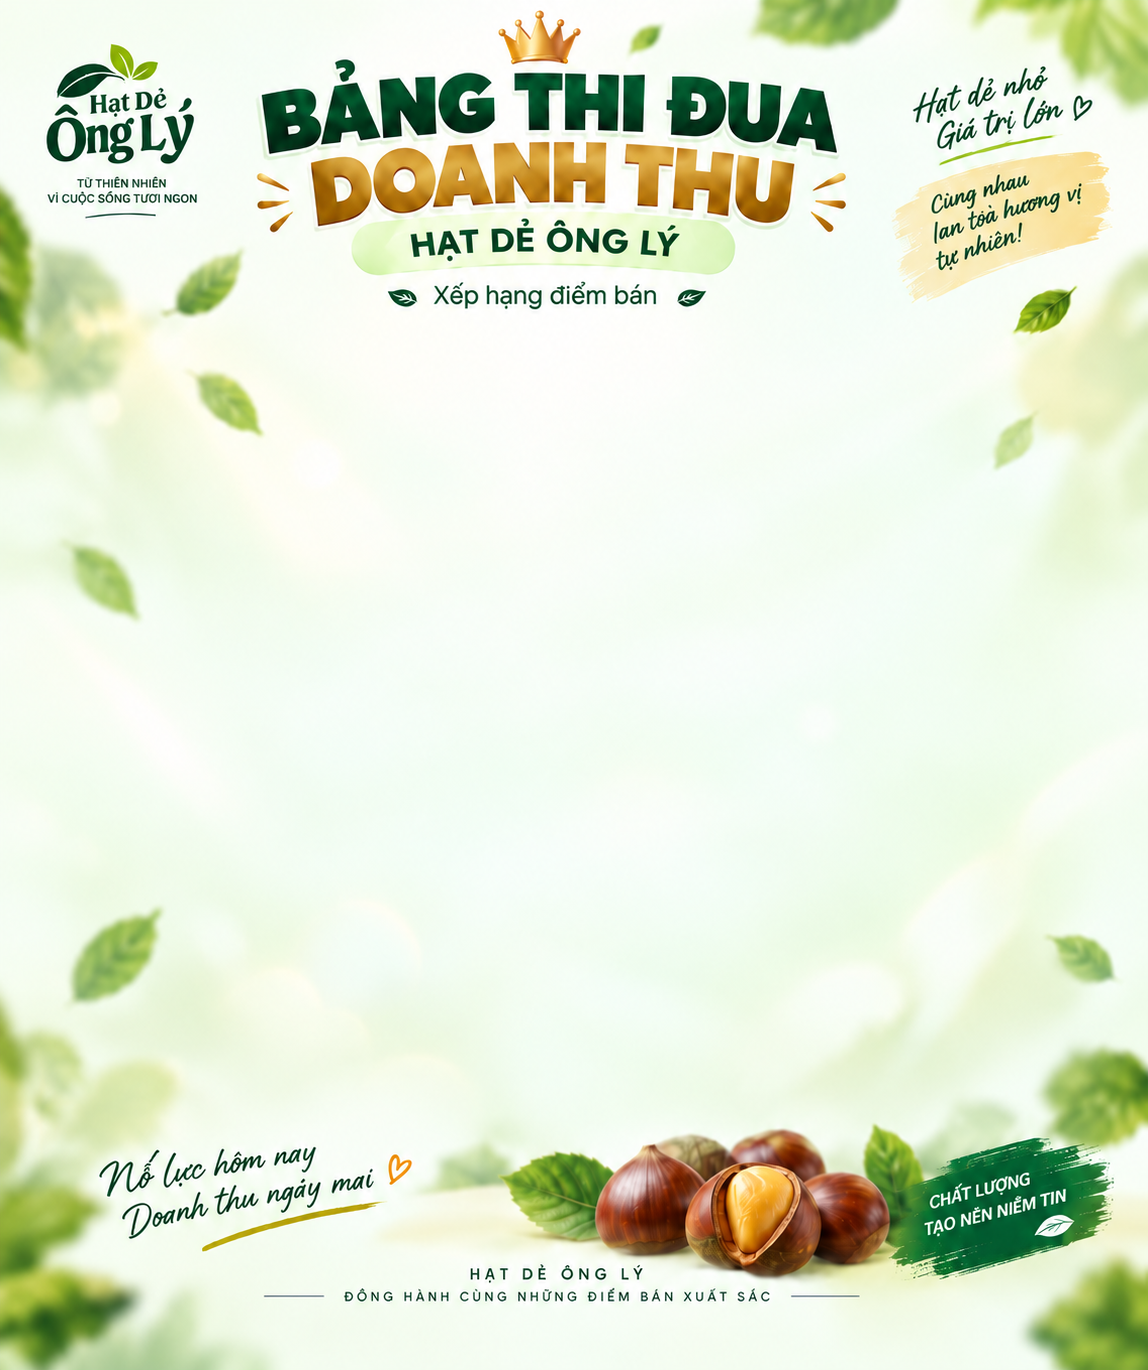
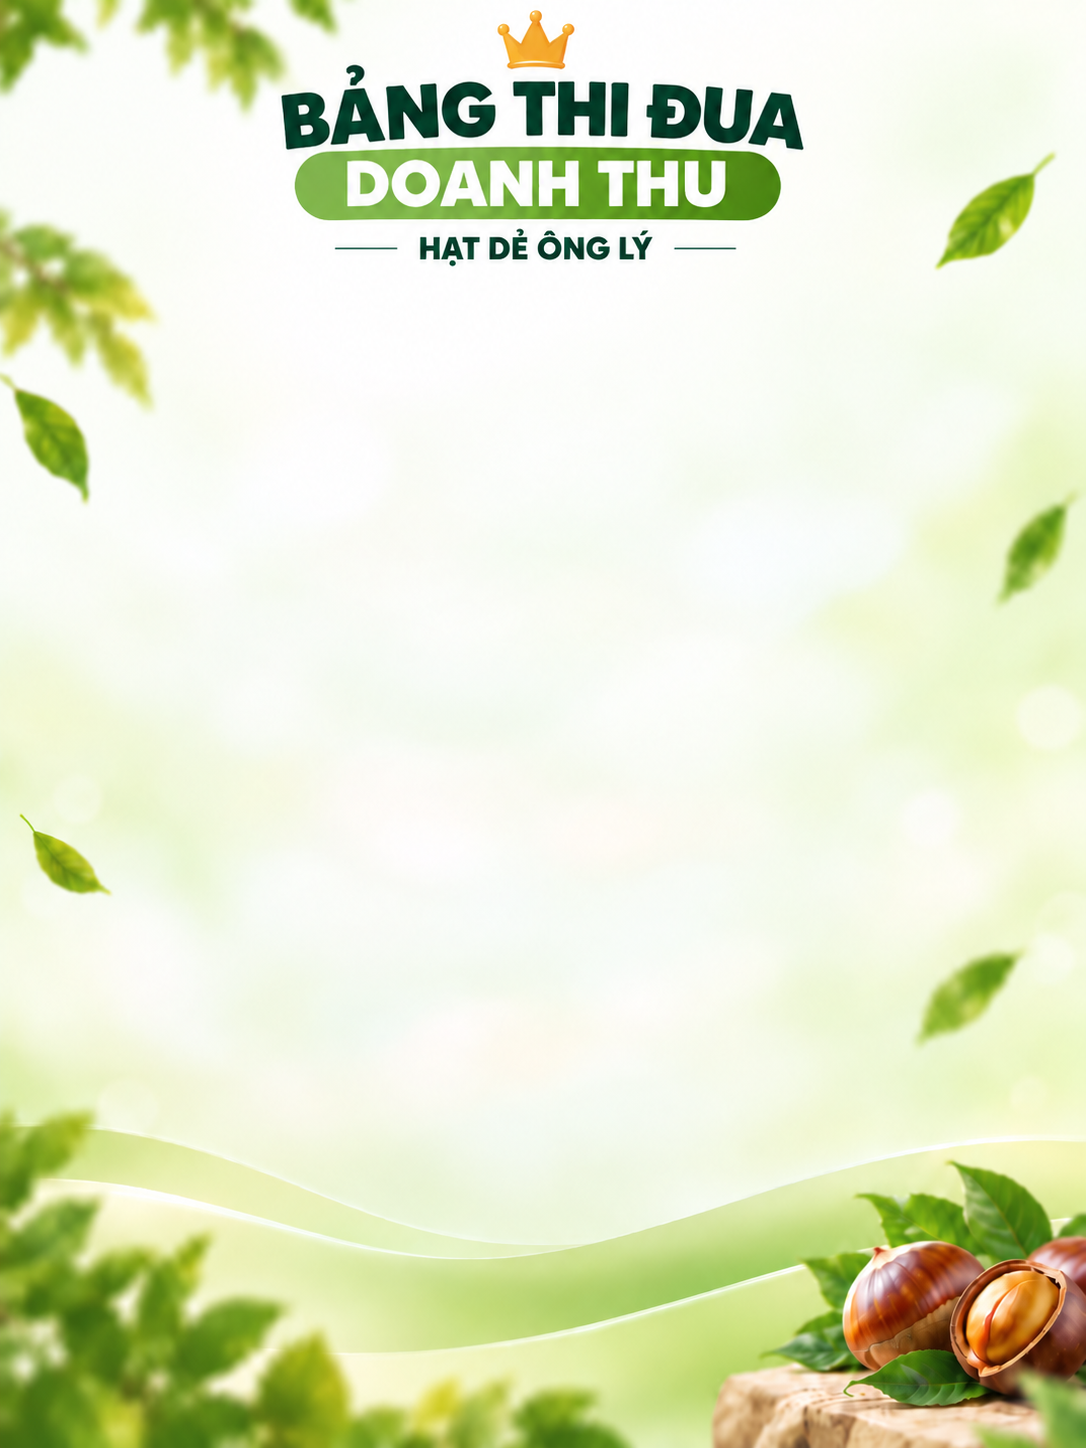
feat(hatde): cập nhật bố cục bảng thi đua
Đồng bộ bảng web và ảnh PNG theo mẫu xếp hạng 7 chi nhánh.

diff --git a/lib/hatde/board-image.ts b/lib/hatde/board-image.ts
@@ -3,11 +3,11 @@ import { Path2D, type Image, type SKRSContext2D } from '@napi-rs/canvas';
 import type { HatdeBranchViewModel, HatdeSnapshotViewModel } from '@/lib/hatde/view-model';
 
 export const HATDE_BOARD_IMAGE_WIDTH = 1080;
-export const HATDE_BOARD_IMAGE_HEIGHT = 1320;
-export const BASE_ROWS = 6;
-export const ROWS_TOP = 320;
-export const ROW_STEP = 130;
-export const TOTALS_BASE_Y = 1100;
+export const HATDE_BOARD_IMAGE_HEIGHT = 1450;
+export const BASE_ROWS = 7;
+export const ROWS_TOP = 395;
+export const ROW_STEP = 120;
+export const TOTALS_BASE_Y = 1245;
 
 export function getHatdeBoardImageHeight(rowCount: number): number {
   return HATDE_BOARD_IMAGE_HEIGHT + Math.max(0, rowCount - BASE_ROWS) * ROW_STEP;
@@ -87,31 +87,46 @@ function drawTrendArrow(ctx: SKRSContext2D, x: number, y: number, direction: 'UP
   drawSvgIcon(ctx, path, x, y, 28, color);
 }
 
-function drawComparison(ctx: SKRSContext2D, x: number, y: number, width: number, branch: HatdeBranchViewModel, key: 'vsYesterday' | 'vsLastWeek', label: string) {
+function drawComparison(ctx: SKRSContext2D, x: number, y: number, width: number, branch: HatdeBranchViewModel, key: 'vsYesterday' | 'vsLastWeek') {
   const comparison = branch[key];
   const isUp = comparison.direction === 'UP';
   const isDown = comparison.direction === 'DOWN';
   ctx.fillStyle = isUp ? COLORS.softGreen : isDown ? COLORS.softRed : COLORS.paleGreen;
   ctx.strokeStyle = isUp ? '#4ade80' : isDown ? '#fca5a5' : COLORS.border;
   ctx.lineWidth = 1.5;
-  roundedRect(ctx, x, y, width, 70, 24);
+  roundedRect(ctx, x, y, width, 62, 18);
   ctx.fill();
   ctx.stroke();
 
   ctx.fillStyle = isUp ? COLORS.darkGreen : isDown ? COLORS.red : COLORS.deepInk;
-  ctx.font = '700 16px HatdeFont';
+  drawTrendArrow(ctx, x + 17, y + 17, comparison.direction);
+  ctx.font = '700 23px HatdeFont';
   ctx.textAlign = 'center';
-  ctx.fillText(label, x + width / 2, y + 25);
-  drawTrendArrow(ctx, x + 28, y + 35, comparison.direction);
-  ctx.font = '700 24px HatdeFont';
-  ctx.fillText(comparison.display, x + width / 2 + 10, y + 54);
+  ctx.textBaseline = 'middle';
+  ctx.fillText(comparison.display, x + width / 2 + 14, y + 31);
+}
+
+function drawTableHeader(ctx: SKRSContext2D) {
+  ctx.fillStyle = 'rgba(230,242,225,0.92)';
+  roundedRect(ctx, 26, 325, 1028, 58, 18);
+  ctx.fill();
+  ctx.fillStyle = COLORS.darkGreen;
+  ctx.font = '700 16px HatdeFont';
+  ctx.textBaseline = 'middle';
+  ctx.textAlign = 'center';
+  ctx.fillText('#', 78, 354);
+  ctx.fillText('CHI NHÁNH', 190, 354);
+  ctx.fillText('DOANH THU', 455, 354);
+  ctx.fillText('SỐ GIAO DỊCH', 610, 354);
+  ctx.fillText('SO VỚI HÔM QUA', 770, 354);
+  ctx.fillText('SO VỚI TUẦN TRƯỚC', 950, 354);
 }
 
 function drawBranch(ctx: SKRSContext2D, branch: HatdeBranchViewModel, index: number) {
   const x = 28;
   const y = ROWS_TOP + index * ROW_STEP;
   const width = 1024;
-  const height = 118;
+  const height = 108;
 
   ctx.shadowColor = 'rgba(7,85,47,0.15)';
   ctx.shadowBlur = 12;
@@ -126,73 +141,75 @@ function drawBranch(ctx: SKRSContext2D, branch: HatdeBranchViewModel, index: num
 
   ctx.fillStyle = branch.rank <= 3 ? (branch.rank === 2 ? '#bcc5ce' : branch.rank === 3 ? '#a95c1b' : COLORS.gold) : COLORS.paleGreen;
   ctx.beginPath();
-  ctx.arc(92, y + height / 2, 42, 0, Math.PI * 2);
+  ctx.arc(88, y + height / 2, 38, 0, Math.PI * 2);
   ctx.fill();
-  if (branch.rank === 1) drawSvgIcon(ctx, SVG_PATHS.crown, 72, y + 2, 40, COLORS.gold, true);
-  if (branch.rank === 2 || branch.rank === 3) {
-    drawSvgIcon(ctx, SVG_PATHS.medal, 77, y + 4, 30, branch.rank === 2 ? '#7c8794' : '#8b4513');
-  }
+  if (branch.rank === 1) drawSvgIcon(ctx, SVG_PATHS.crown, 69, y - 3, 38, COLORS.gold, true);
   ctx.fillStyle = branch.rank === 2 || branch.rank >= 4 ? COLORS.darkGreen : COLORS.white;
-  ctx.font = '700 42px HatdeFont';
+  ctx.font = '700 38px HatdeFont';
   ctx.textAlign = 'center';
   ctx.textBaseline = 'middle';
-  ctx.fillText(String(branch.rank), 92, y + height / 2 + 2);
+  ctx.fillText(String(branch.rank), 88, y + height / 2 + 2);
 
   ctx.textAlign = 'left';
   ctx.textBaseline = 'alphabetic';
   ctx.fillStyle = COLORS.deepInk;
-  const nameSize = fitText(ctx, branch.name, 390, 26, 19, 'HatdeFont');
+  const nameSize = fitText(ctx, branch.name, 365, 24, 18, 'HatdeFont');
   ctx.font = `700 ${nameSize}px HatdeFont`;
-  ctx.fillText(branch.name.toUpperCase(), 155, y + 40);
+  ctx.fillText(branch.name.toUpperCase(), 145, y + 40);
   ctx.fillStyle = COLORS.darkGreen;
-  ctx.font = '700 29px HatdeFont';
-  drawSvgIcon(ctx, SVG_PATHS.wallet, 155, y + 60, 31, '#15803d');
-  ctx.fillText(branch.revenueDisplay, 198, y + 85);
+  ctx.font = '700 28px HatdeFont';
+  ctx.fillText(branch.revenueDisplay, 145, y + 79);
 
   ctx.fillStyle = COLORS.deepInk;
   ctx.font = '700 25px HatdeFont';
-  drawSvgIcon(ctx, SVG_PATHS.receipt, 474, y + 43, 32, COLORS.deepInk);
-  ctx.fillText(branch.transactionsDisplay, 520, y + 69);
+  ctx.textAlign = 'center';
+  ctx.fillText(branch.transactionsDisplay, 610, y + 53);
   ctx.font = '400 15px HatdeFont';
-  ctx.fillText('giao dịch', 550, y + 69);
+  ctx.fillStyle = '#64748b';
+  ctx.fillText('giao dịch', 610, y + 78);
 
-  drawComparison(ctx, 650, y + 24, 178, branch, 'vsYesterday', 'Hôm qua');
-  drawComparison(ctx, 846, y + 24, 178, branch, 'vsLastWeek', 'Tuần trước');
+  drawComparison(ctx, 690, y + 23, 158, branch, 'vsYesterday');
+  drawComparison(ctx, 872, y + 23, 158, branch, 'vsLastWeek');
 }
 
 function drawTotals(ctx: SKRSContext2D, report: HatdeSnapshotViewModel, y: number = TOTALS_BASE_Y) {
-  const x = 120;
-  const width = 840;
-  const height = 82;
+  const x = 26;
+  const width = 1028;
+  const height = 98;
 
   ctx.shadowColor = 'rgba(7,85,47,0.18)';
   ctx.shadowBlur = 14;
   ctx.shadowOffsetY = 4;
   ctx.fillStyle = 'rgba(255,255,255,0.95)';
-  ctx.strokeStyle = COLORS.gold;
-  ctx.lineWidth = 3;
-  roundedRect(ctx, x, y, width, height, 24);
+  ctx.strokeStyle = '#84cc16';
+  ctx.lineWidth = 2;
+  roundedRect(ctx, x, y, width, height, 22);
   ctx.fill();
   ctx.stroke();
   ctx.shadowColor = 'transparent';
 
-  drawSvgIcon(ctx, SVG_PATHS.wallet, x + 30, y + 25, 34, COLORS.darkGreen);
+  drawSvgIcon(ctx, SVG_PATHS.wallet, x + 78, y + 31, 38, COLORS.darkGreen);
   ctx.textAlign = 'left';
   ctx.textBaseline = 'alphabetic';
   ctx.fillStyle = COLORS.deepInk;
   ctx.font = '700 15px HatdeFont';
-  ctx.fillText('TỔNG DOANH THU', x + 78, y + 28);
+  ctx.fillText('TỔNG DOANH THU CHUỖI', x + 145, y + 31);
   ctx.fillStyle = COLORS.darkGreen;
   ctx.font = '700 27px HatdeFont';
-  ctx.fillText(report.totalRevenueDisplay, x + 78, y + 60);
+  ctx.fillText(report.totalRevenueDisplay, x + 145, y + 68);
 
-  drawSvgIcon(ctx, SVG_PATHS.receipt, x + 540, y + 25, 34, COLORS.darkGreen);
+  ctx.strokeStyle = COLORS.border;
+  ctx.beginPath();
+  ctx.moveTo(x + 515, y + 20);
+  ctx.lineTo(x + 515, y + 78);
+  ctx.stroke();
+  drawSvgIcon(ctx, SVG_PATHS.receipt, x + 625, y + 31, 38, COLORS.darkGreen);
   ctx.fillStyle = COLORS.deepInk;
   ctx.font = '700 15px HatdeFont';
-  ctx.fillText('TỔNG GIAO DỊCH', x + 588, y + 28);
+  ctx.fillText('TỔNG GIAO DỊCH', x + 690, y + 31);
   ctx.fillStyle = COLORS.darkGreen;
   ctx.font = '700 27px HatdeFont';
-  ctx.fillText(`${report.totalTransactionsDisplay} giao dịch`, x + 588, y + 60);
+  ctx.fillText(`${report.totalTransactionsDisplay} giao dịch`, x + 690, y + 68);
 }
 
 export function drawHatdeBoardImage(ctx: SKRSContext2D, report: HatdeSnapshotViewModel, background: Image) {
@@ -204,33 +221,33 @@ export function drawHatdeBoardImage(ctx: SKRSContext2D, report: HatdeSnapshotVie
       0,
       0,
       background.width,
-      1090 * scaleY,
+      1235 * scaleY,
       0,
       0,
       HATDE_BOARD_IMAGE_WIDTH,
-      1090,
+      1235,
     );
     ctx.drawImage(
       background,
       0,
-      1050 * scaleY,
+      1195 * scaleY,
       background.width,
       40 * scaleY,
       0,
-      1090,
+      1235,
       HATDE_BOARD_IMAGE_WIDTH,
       extra,
     );
     ctx.drawImage(
       background,
       0,
-      1090 * scaleY,
+      1235 * scaleY,
       background.width,
-      background.height - 1090 * scaleY,
+      background.height - 1235 * scaleY,
       0,
-      1090 + extra,
+      1235 + extra,
       HATDE_BOARD_IMAGE_WIDTH,
-      HATDE_BOARD_IMAGE_HEIGHT - 1090,
+      HATDE_BOARD_IMAGE_HEIGHT - 1235,
     );
   } else {
     ctx.drawImage(background, 0, 0, HATDE_BOARD_IMAGE_WIDTH, HATDE_BOARD_IMAGE_HEIGHT);
@@ -239,15 +256,18 @@ export function drawHatdeBoardImage(ctx: SKRSContext2D, report: HatdeSnapshotVie
   ctx.fillStyle = 'rgba(255,255,255,0.9)';
   ctx.strokeStyle = COLORS.border;
   ctx.lineWidth = 1;
-  roundedRect(ctx, 420, 286, 240, 30, 15);
+  roundedRect(ctx, 728, 24, 326, 70, 24);
   ctx.fill();
   ctx.stroke();
   ctx.fillStyle = COLORS.darkGreen;
-  ctx.font = '700 15px HatdeFont';
-  ctx.textAlign = 'center';
+  ctx.font = '700 17px HatdeFont';
+  ctx.textAlign = 'left';
   ctx.textBaseline = 'middle';
-  ctx.fillText(`Cập nhật ${report.reportTime} · ${report.reportDateDisplay}`, 540, 301);
+  ctx.fillText('Cập nhật', 805, 49);
+  ctx.font = '700 18px HatdeFont';
+  ctx.fillText(`${report.reportTime} · ${report.reportDateDisplay}`, 805, 75);
 
+  drawTableHeader(ctx);
   report.branches.forEach((branch, index) => drawBranch(ctx, branch, index));
   drawTotals(ctx, report, TOTALS_BASE_Y + extra);
 }

diff --git a/features/admin-hatde/hatde-ranking-board.tsx b/features/admin-hatde/hatde-ranking-board.tsx
@@ -15,10 +15,8 @@ function Comparison({ value, label }: { value: HatdeComparisonViewModel; label: 
       value.direction === 'UNCHANGED' && 'border-input-border bg-status-pending-bg text-status-pending-fg',
     )}>
       <Icon aria-hidden="true" className="size-5 shrink-0 sm:size-7" strokeWidth={3} />
-      <div className="min-w-0">
-        <p className="text-xs font-semibold sm:text-sm">{label}:</p>
-        <p className="text-base font-black tabular-nums sm:text-xl">{value.display}</p>
-      </div>
+      <span className="sr-only">{label}: </span>
+      <p className="text-base font-black tabular-nums sm:text-xl">{value.display}</p>
     </div>
   );
 }
@@ -44,23 +42,25 @@ function Rank({ rank }: { rank: number }) {
 function BranchRow({ branch }: { branch: HatdeBranchViewModel }) {
   return (
     <li className={cn(
-      'grid min-h-32 grid-cols-[auto_1fr] items-center gap-2 rounded-2xl border bg-card/90 p-3 shadow-md backdrop-blur-[2px] sm:min-h-36 sm:grid-cols-[auto_1.15fr_1fr] sm:gap-4 sm:px-5',
+      'grid min-h-28 grid-cols-[auto_1fr] items-center gap-2 rounded-2xl border bg-card/90 p-3 shadow-sm backdrop-blur-[2px] sm:grid-cols-[auto_1.5fr_.55fr_1fr] sm:gap-4 sm:px-5',
       branch.rank === 1 ? 'border-2 border-hatde-gold shadow-lg' : 'border-hatde-row-border',
     )}>
       <Rank rank={branch.rank} />
       <div className="min-w-0">
         <h3 className="text-base font-black tracking-tight break-words text-hatde-green-deep uppercase sm:text-xl">{branch.name}</h3>
-        <div className="mt-2 flex flex-wrap items-center gap-x-4 gap-y-1">
+        <div className="mt-1">
           <p className="inline-flex items-center gap-2 text-lg font-black tracking-tight text-hatde-green-deep tabular-nums sm:text-2xl">
             <WalletCards aria-hidden="true" className="size-5 shrink-0 text-success sm:size-7" />
             {branch.revenueDisplay}
           </p>
-          <p aria-label={`${branch.transactionsDisplay} giao dịch`} className="inline-flex items-center gap-1.5 text-sm text-hatde-ink sm:text-base">
-            <ReceiptText aria-hidden="true" className="size-5" />
-            <strong className="text-lg tabular-nums">{branch.transactionsDisplay}</strong> giao dịch
+          <p aria-label={`${branch.transactionsDisplay} giao dịch`} className="mt-1 text-sm text-hatde-ink sm:hidden">
+            <strong className="text-base tabular-nums">{branch.transactionsDisplay}</strong> giao dịch
           </p>
         </div>
       </div>
+      <p aria-label={`${branch.transactionsDisplay} giao dịch`} className="hidden text-center text-sm text-hatde-ink sm:block">
+        <strong className="block text-2xl tabular-nums">{branch.transactionsDisplay}</strong> giao dịch
+      </p>
       <div className="col-span-2 flex min-w-0 gap-2 sm:col-span-1">
         <Comparison value={branch.vsYesterday} label="Hôm qua" />
         <Comparison value={branch.vsLastWeek} label="Tuần trước" />
@@ -76,19 +76,22 @@ export function HatdeRankingBoard({ report }: Props) {
       <p className="mx-auto w-fit rounded-full border border-hatde-row-border bg-card/90 px-5 py-1.5 text-center text-sm font-bold tabular-nums text-hatde-green-deep shadow-sm">
         Cập nhật {report.reportTime} · {report.reportDateDisplay}
       </p>
-      <ol className="mt-3 space-y-3 px-[2.5%]">
+      <div className="mx-[2.5%] mt-3 hidden grid-cols-[4rem_1.5fr_.55fr_.5fr_.5fr] items-center rounded-2xl bg-hatde-rank-soft/70 px-5 py-3 text-center text-sm font-black text-hatde-green-deep sm:grid">
+        <span>#</span><span className="text-left">Chi nhánh / Doanh thu</span><span>Số giao dịch</span><span>So với hôm qua</span><span>So với tuần trước</span>
+      </div>
+      <ol className="mt-3 space-y-3 px-[2.5%] sm:mt-2">
         {report.branches.map((branch) => <BranchRow key={branch.code} branch={branch} />)}
       </ol>
       <div
         aria-label={`Tổng doanh thu ${report.totalRevenueDisplay}, tổng ${report.totalTransactionsDisplay} giao dịch`}
-        className="mx-[2.5%] mt-3 grid gap-3 rounded-2xl border-2 border-hatde-gold bg-card/95 p-4 shadow-lg backdrop-blur-[2px] sm:grid-cols-2 sm:px-6"
+        className="mx-[2.5%] mt-3 grid gap-3 rounded-2xl border-2 border-hatde-lime bg-card/95 p-4 shadow-lg backdrop-blur-[2px] sm:grid-cols-2 sm:px-10"
       >
         <div className="flex min-w-0 items-center gap-3">
           <span className="grid size-11 shrink-0 place-items-center rounded-full bg-hatde-rank-soft text-hatde-green-deep">
             <WalletCards aria-hidden="true" className="size-6" />
           </span>
           <div className="min-w-0">
-            <p className="text-sm font-bold text-hatde-ink">Tổng doanh thu</p>
+            <p className="text-sm font-bold text-hatde-ink">Tổng doanh thu chuỗi</p>
             <p className="break-words text-xl font-black tracking-tight text-hatde-green-deep tabular-nums sm:text-2xl">
               {report.totalRevenueDisplay}
             </p>

diff --git a/lib/hatde/board-image.test.ts b/lib/hatde/board-image.test.ts
@@ -16,7 +16,7 @@ import {
 import type { HatdeSnapshotViewModel } from '@/lib/hatde/view-model';
 
 describe('drawHatdeBoardImage', () => {
-  it('render PNG đúng 1080x1320 với đủ sáu chi nhánh', async () => {
+  it('render PNG đúng 1080x1450 với đủ sáu chi nhánh', async () => {
     GlobalFonts.registerFromPath(path.join(process.cwd(), 'public/fonts/NotoSans-Regular.ttf'), 'HatdeFont');
     GlobalFonts.registerFromPath(path.join(process.cwd(), 'public/fonts/NotoSans-Bold.ttf'), 'HatdeFont');
     const report: HatdeSnapshotViewModel = {
@@ -43,15 +43,14 @@ describe('drawHatdeBoardImage', () => {
 
     expect(png.subarray(1, 4).toString()).toBe('PNG');
     expect(png.readUInt32BE(16)).toBe(1080);
-    expect(png.readUInt32BE(20)).toBe(1320);
+    expect(png.readUInt32BE(20)).toBe(1450);
   });
 
   it('tính chiều cao canvas động với getHatdeBoardImageHeight', () => {
-    expect(getHatdeBoardImageHeight(0)).toBe(1320);
-    expect(getHatdeBoardImageHeight(5)).toBe(1320);
-    expect(getHatdeBoardImageHeight(6)).toBe(1320);
+    expect(getHatdeBoardImageHeight(0)).toBe(1450);
+    expect(getHatdeBoardImageHeight(6)).toBe(1450);
     expect(getHatdeBoardImageHeight(7)).toBe(1450);
-    expect(getHatdeBoardImageHeight(8)).toBe(1580);
+    expect(getHatdeBoardImageHeight(8)).toBe(1570);
   });
 
   it('render PNG 1080x1450 với đủ 7 chi nhánh và khung tổng nằm dưới hàng 7', async () => {
@@ -95,17 +94,17 @@ describe('drawHatdeBoardImage', () => {
 
     // Vị trí y của hàng thứ 7 (index 6): ROWS_TOP + 6 * ROW_STEP = 320 + 6 * 130 = 1100, chiều cao card = 118
     const branch7Y = ROWS_TOP + 6 * ROW_STEP;
-    expect(branch7Y).toBe(1100);
-    const branch7Bottom = branch7Y + 118; // 1218
+    expect(branch7Y).toBe(1115);
+    const branch7Bottom = branch7Y + 108;
 
-    // Khung tổng doanh thu: TOTALS_BASE_Y + extra = 1100 + 130 = 1230
+    // Khung tổng doanh thu nằm dưới hàng thứ bảy.
     const extra = Math.max(0, report.branches.length - BASE_ROWS) * ROW_STEP;
     const totalsY = TOTALS_BASE_Y + extra;
-    expect(totalsY).toBe(1230);
+    expect(totalsY).toBe(1245);
     expect(totalsY).toBeGreaterThan(branch7Bottom);
 
     // Kiểm tra roundRect được gọi để vẽ khung tổng tại đúng vị trí totalsY = 1230
-    expect(roundRectSpy).toHaveBeenCalledWith(120, totalsY, 840, 82, 24);
+    expect(roundRectSpy).toHaveBeenCalledWith(26, totalsY, 1028, 98, 22);
   });
 
   it('dùng SVG Path2D thay vì glyph Unicode cho icon', () => {

diff --git a/docs/08-testing-strategy.md b/docs/08-testing-strategy.md
@@ -1587,6 +1587,8 @@ Next Exact Steps: tải lại trang khách hàng, chọn nhóm A/B/C/D và dùng
 Unit khóa ánh xạ hai chiều giữa `Võ Thanh Nhâm` và `Abraham Nhâm Miền Trung`, đồng thời khóa tài khoản trong tập đồng bộ ngày/tháng. Đồng bộ thật ngày ghi 9 tài khoản; snapshot tháng 10/2026 chạy lại thành công, ghi 11 tài khoản có dữ liệu và đọc Võ Thanh Nhâm là 12/31/77. Typecheck, lint và production build 30 trang đều exit 0.
 Migration nối hồ sơ Võ Thanh Nhâm phải fail khi hồ sơ thiếu/trùng, khi tên AMIS đã thuộc hồ sơ khác hoặc khi hồ sơ đang map sang tên khác. Sau deploy cần mở lại preview cuối ngày hiện tại và xác nhận cả khối MISA lẫn SaleWork; không dùng dữ liệu tháng để khẳng định snapshot ngày.
 Mẫu SaleWork 20/10 có unit khóa đường dẫn nền mới và cấm chuỗi `mid-autumn`; render PNG thật cho Hải TeleSale và Nguyễn Thị Như Quỳnh để kiểm tra tên dài, mã telesale, hai bảng và footer không chồng/cắt. Không ghi UI/browser PASS chỉ từ unit.
+
+Bảng thi đua Hạt Dẻ có unit render PNG 1080×1450 cho bảy chi nhánh, khóa vị trí hàng cuối và thanh tổng; component test phải giữ chi nhánh 0 đồng, tổng doanh thu và tổng giao dịch.
 ## 08/10/2026 — Kiểm chứng báo cáo Pancake
 
 Script phải được parse trên Windows PowerShell 5.1 và PowerShell 7 khi môi trường có sẵn. Smoke test không key phải exit khác 0 mà không in secret/URL. Kiểm thử bằng API thật chỉ chạy sau khi `PANCAKE_API_KEY` được cấu hình; không ghi PASS cho dữ liệu thật nếu chưa chạy.

diff --git a/SESSION_CHECKPOINT.md b/SESSION_CHECKPOINT.md
@@ -2956,3 +2956,5 @@ Targeted E2E chưa chạy được vì Supabase local cổng 54322 không hoạt
 DEC-118: nền Halloween mới đã được gán riêng cho Nguyễn Ngọc Triết, Hải TeleSale và Nguyễn Thị Kim Hương ở cả server route lẫn xuất ảnh client. Unit 12/12, typecheck/lint và build production 37/37 route pass. **Next Exact Step:** commit/push và kiểm tra ba preview sau deploy.
 
 ISSUE-063 đã đóng: footer của ba báo cáo nền Halloween nay dùng “HAPPY HALLOWEEN · 31/10”; Hải TeleSale, Nguyễn Thị Kim Hương và Nguyễn Ngọc Triết không còn nhận nội dung 20/10. Targeted unit 14/14, typecheck, lint và production build 37/37 route pass. **Next Exact Step:** kiểm tra trực quan ba preview rồi deploy.
+
+Bảng thi đua Hạt Dẻ đã được chỉnh theo ảnh tham chiếu: web và PNG có header cột, bảy hàng gọn, pill phần trăm ngang và thanh tổng toàn chiều rộng. Fixture 1080×1450 đã xem trực tiếp; targeted unit 5/5, typecheck, lint và production build 37/37 route pass. **Next Exact Step:** kiểm tra route `/admin/hatde/board` ở 375px và desktop trước deploy.

diff --git a/WORKLOG.md b/WORKLOG.md
@@ -4097,3 +4097,7 @@ Theo yêu cầu DEC-118, đã đưa ảnh Halloween mới nhất từ Downloads 
 ## 2026-10-27 — Sửa footer ảnh Halloween (ISSUE-063)
 
 Đã sửa renderer SaleWork và Sàn TMĐT để ba tài khoản dùng nền Halloween hiển thị “HAPPY HALLOWEEN”/“31/10”, không còn chữ “PHỤ NỮ VIỆT NAM”/“20/10”. Logic nền và footer dùng chung `isHalloweenReportAccount()` để không lệch chủ đề. Targeted unit 14/14, typecheck, lint và production build 37/37 route pass.
+
+## 2026-10-27 — Chỉnh bảng thi đua Hạt Dẻ theo mẫu tham chiếu
+
+Đã đồng bộ web/PNG sang bố cục bảng xếp hạng có header cột, hàng chi nhánh gọn, cột giao dịch riêng, pill so sánh ngang và thanh tổng toàn chiều rộng. Ảnh cơ sở đổi sang 1080×1450 cho tối đa bảy chi nhánh; số hàng lớn hơn tiếp tục tăng chiều cao động. Fixture 7 chi nhánh đã được render và xem trực tiếp; targeted unit 5/5, typecheck, lint và production build 37/37 route pass.
